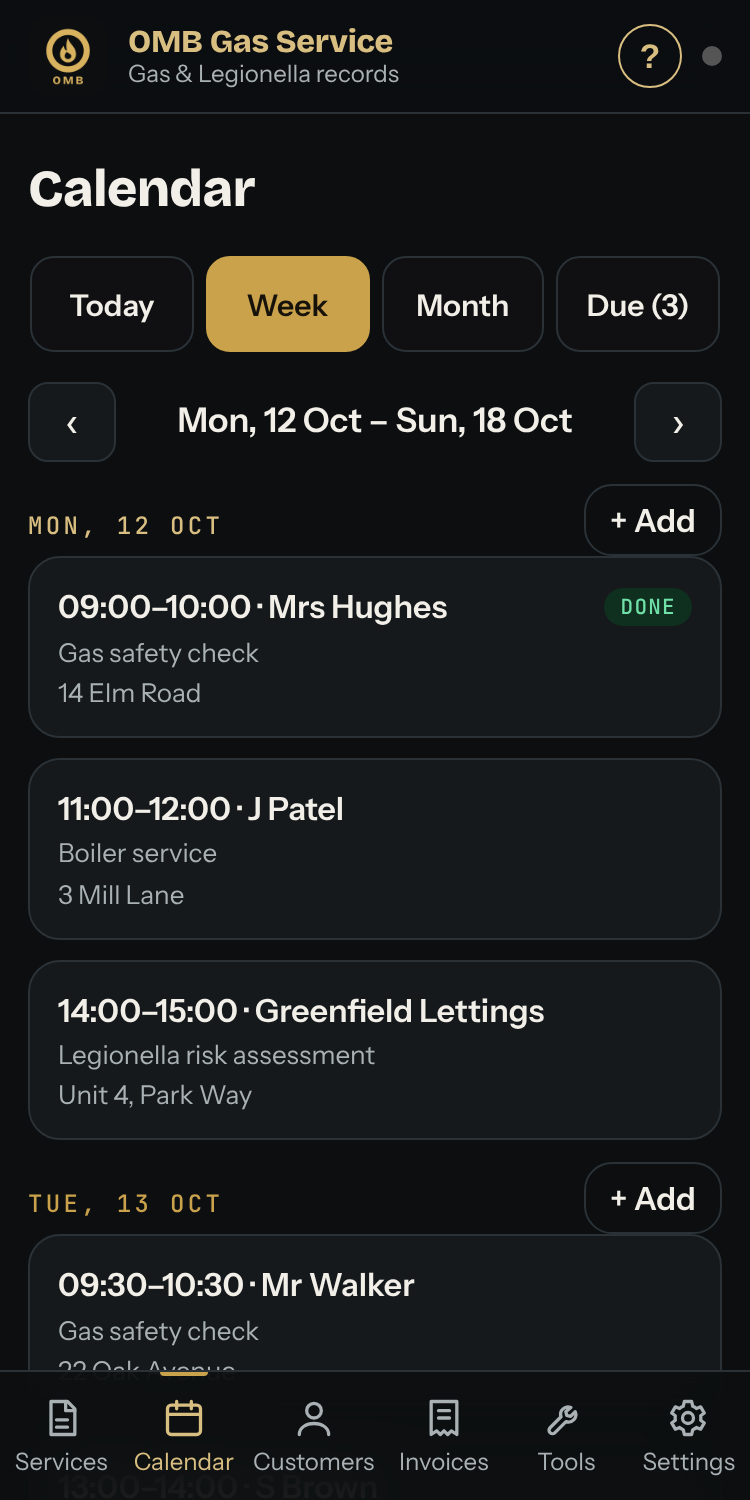
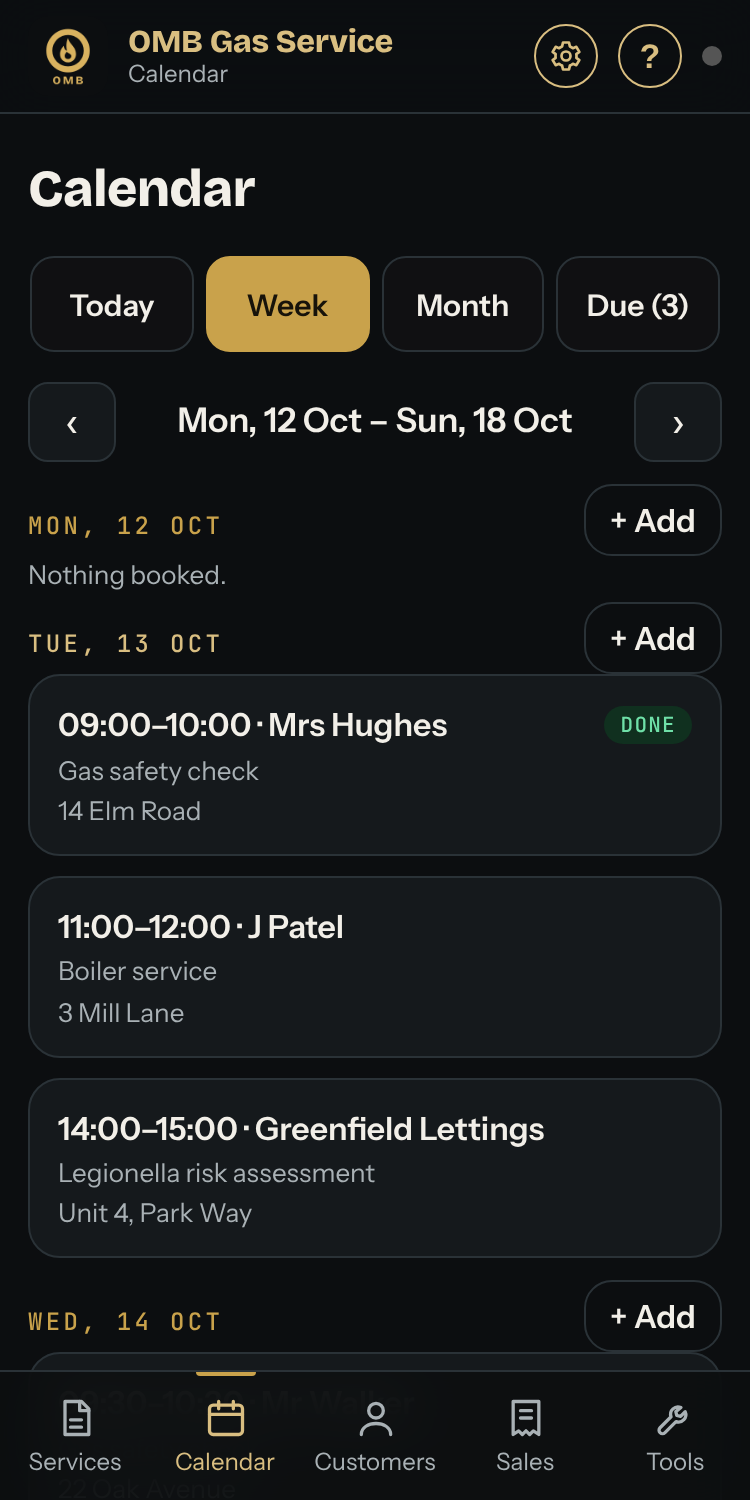
Website: Sales and Quotes tab, schedule accepted quotes, clash tags, forms on appointments; retake all screenshots for the new bottom bar
Claude-Session: https://claude.ai/code/session_0178TbPUaNMd9U8tCb7q57PP

diff --git a/index.html b/index.html
@@ -128,8 +128,8 @@
     <h2 class="rv">Built for the van, not the office</h2>
     <div class="points rv">
       <div><h3>Annual checks due</h3><p>A list of gas safety checks, boiler services and Legionella assessments coming up or overdue. Tap Text, WhatsApp or Email and a ready-written reminder opens on your phone. Nothing is sent until you press send. Mark each one Booked in, Not needed or Stop, or tap Book it in to put it straight in your calendar with the customer, address and job filled in.</p></div>
-      <div><h3>A calendar built in</h3><p>Today’s jobs sit on your front screen, and the Calendar tab has the week and month views. Book a job in with a few taps: type a customer’s name, pick their address and choose the job, including your own jobs like bathroom installs. There is a week view too. Open an appointment to text “I’m on my way” or navigate straight there. Annual checks due sit in the calendar too, with a Book it in button. Tomorrow’s appointments come up with Text and Email buttons to remind customers, and one tap sends the next. It all syncs between your phone and computer and exports to Google, Apple or Outlook calendars. Don’t want it? Switch it off.</p></div>
-      <div><h3>Quotes that win the job</h3><p>Quote for any job, not just boilers: give it a title, list what is included and add items from your price list, your own items and labour. For a boiler, pick the boiler, flue and extras from your own price list and send a three-page proposal with your logo and the manufacturer warranty on the front. Choose large text for older customers. Mark it Accepted or Declined, and it reminds you to chase after two weeks.</p></div>
+      <div><h3>A calendar built in</h3><p>Today’s jobs sit on your front screen, and the Calendar tab has the week and month views. Book a job in with a few taps: type a customer’s name, pick their address and choose the job, including your own jobs like bathroom installs. There is a week view too. Open an appointment to text “I’m on my way” or navigate straight there. The “on my way” text includes the address of the job. Annual checks due sit in the calendar too, with a Book it in button. Open a past appointment to see the forms, quote or certificate you made for it, and tap one to open it again. If two appointments overlap, both get a red Clash tag, even when your partner booked the slot from another phone. Tomorrow’s appointments come up with Text and Email buttons to remind customers, and one tap sends the next. It all syncs between your phone and computer and exports to Google, Apple or Outlook calendars. Don’t want it? Switch it off.</p></div>
+      <div><h3>Quotes that win the job</h3><p>Quote for any job, not just boilers: give it a title, list what is included and add items from your price list, your own items and labour. For a boiler, pick the boiler, flue and extras from your own price list and send a three-page proposal with your logo and the manufacturer warranty on the front. Choose large text for older customers. Mark it Accepted or Declined, and it reminds you to chase after two weeks. The Quotes tab under Sales lists every quote with its status and how much money is waiting for an answer. When a customer says yes, tap Schedule into the calendar and the booking is filled in for you. A To schedule filter shows accepted jobs that are not in the calendar yet.</p></div>
       <div><h3>Your price list</h3><p>Boilers, flue kits, copper, fittings, thermostats and labour, each with your cost and mark-up. The sale price works itself out, and you can see your profit on every quote. Fill it in on your phone or load it from an Excel sheet. Customers never see your costs.</p></div>
       <div><h3>Simple invoices</h3><p>Make one from a finished job with your standard prices already in. Type a client name and pick them from your saved customers. Add VAT if you charge it, stamp it PAID, and print the bank details on it. Send the PDF, or mark a job as needing no invoice. Add lines straight from your price list at the sale price, and take off a discount in pounds or as a percentage. At each VAT quarter, print a summary for your accountant.</p></div>
       <div><h3>Yearly summary</h3><p>See what you invoiced each month, the VAT, what is paid and what is still owed, and how many jobs you did of each type. Download the year as a spreadsheet for your accountant or accounting software.</p></div>
@@ -154,6 +154,8 @@
       <figure class="shot"><div class="phone"><img src="img/shot-10.png" width="750" height="1500" alt="The week view with each day's appointments and an Add button" loading="lazy"></div><figcaption>See the week. Add a job to any day.</figcaption></figure>
       <figure class="shot"><div class="phone"><img src="img/shot-11.png" width="750" height="1500" alt="An appointment with a Text I'm on my way button and a Navigate button" loading="lazy"></div><figcaption>Text “on my way”. Navigate there.</figcaption></figure>
       <figure class="shot"><div class="phone"><img src="img/shot-12.png" width="750" height="1500" alt="A quote for any job, with a job title and what is included" loading="lazy"></div><figcaption>Quote any job, not just boilers.</figcaption></figure>
+      <figure class="shot"><div class="phone"><img src="img/shot-14.png" width="750" height="1500" alt="The Quotes tab under Sales, listing each quote with its status and the total waiting for an answer" loading="lazy"></div><figcaption>Every quote in one list, with its status.</figcaption></figure>
+      <figure class="shot"><div class="phone"><img src="img/shot-15.png" width="750" height="1500" alt="Accepted quotes that are not in the calendar yet, with a Schedule into the calendar button" loading="lazy"></div><figcaption>Accepted? Put it in the calendar.</figcaption></figure>
       <figure class="shot"><div class="phone"><img src="img/shot-13.png" width="750" height="1500" alt="Adding a line to an invoice from the price list" loading="lazy"></div><figcaption>Invoice lines from your price list.</figcaption></figure>
       <figure class="shot"><div class="phone"><img src="img/shot-8.png" width="750" height="1500" alt="Finding a boiler on a quote by make and model, with the sale price from your price list"></div><figcaption>Quote a boiler in a minute.</figcaption></figure>
       <figure class="shot"><div class="phone"><img src="img/shot-7.png" width="750" height="1500" alt="The price list with cost, mark-up and sale price for each boiler"></div><figcaption>Your costs, your mark-up, your price.</figcaption></figure>
